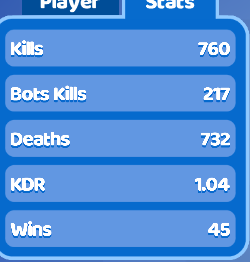
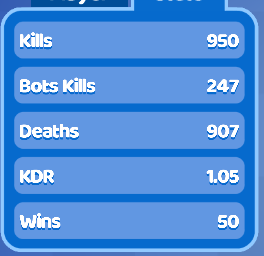
Added TwitchyTopHat. Updated Alexplayz, Fubster, smashking283

diff --git a/playerList.js b/playerList.js
@@ -57,13 +57,13 @@ let player = [
      ''],
     ['Alexplayz.png',
      'Alexplayz',
-     45,
-     760,
-     217,
-     732,
-     '1.04',
+     50,
+     950,
+     247,
+     907,
+     '1.05',
      '',
-     '5.24.2021'],
+     '6.1.2021'],
     ['Alfonso.png',
      'Alfonso',
      1414,
@@ -182,7 +182,7 @@ let player = [
      9,
      '5.31.2021'],
     ['boomya.png',
-     'boomya' + newPlayer,
+     'boomya',
      2898,
      34996,
      722,
@@ -308,7 +308,7 @@ let player = [
      7,
      '5.31.2021'],
     ['dragonblackshade.jpg',
-     'dragonblackshade' + newPlayer,
+     'dragonblackshade',
      1,
      54,
      14,
@@ -381,13 +381,13 @@ let player = [
      ''],
     ['Fubster.png',
      'Fubster',
-     675,
-     12345,
+     700,
+     12673,
      67,
-     7936,
+     8134,
      '1.56',
-     14,
-     '5.31.2021'],
+     15,
+     '6.1.2021'],
     ['GANPATJAAT.png',
      'GANPATJAAT',
      3501,
@@ -794,7 +794,7 @@ let player = [
      '',
      ''],
     ['Noob21.png',
-     'Noob21' + newPlayer,
+     'Noob21',
      186,
      2739,
      82,
@@ -911,7 +911,7 @@ let player = [
      '',
      ''],
     ['Pro.png',
-     'Pro' + newPlayer,
+     'Pro',
      9,
      303,
      51,
@@ -1092,13 +1092,13 @@ let player = [
      '5.17.2021'],
     ['smashking283.png',
      'smashking283',
-     1556,
-     16760,
-     6663,
-     7683,
-     '2.18',
-     13,
-     '5.27.2021'],
+     1700,
+     18392,
+     6872,
+     8306,
+     '2.21',
+     14,
+     '6.1.2021'],
     ['SmashMan360.png',
      'SmashMan360',
      1354,
@@ -1109,7 +1109,7 @@ let player = [
      '',
      '5.19.2021'],
     ['Smatisfaction.png',
-     'Smatisfaction' + newPlayer,
+     'Smatisfaction',
      65,
      863,
      28,
@@ -1252,6 +1252,15 @@ let player = [
      '1.22',
      10,
      '5.27.2021'],
+    ['TwitchyTopHat.png',
+     'TwitchyTopHat' + newPlayer,
+     483,
+     6398,
+     189,
+     3325,
+     '1.92',
+     11,
+     '6.1.2021'],
     ['Victory Valtryek.png',
      'Victory Valtryek',
      89,
